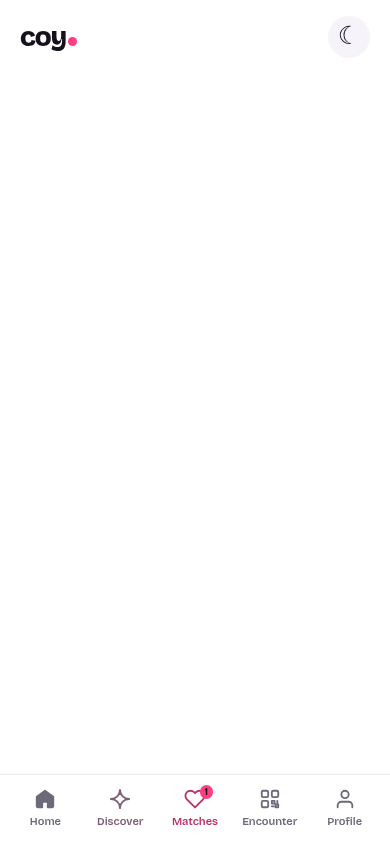
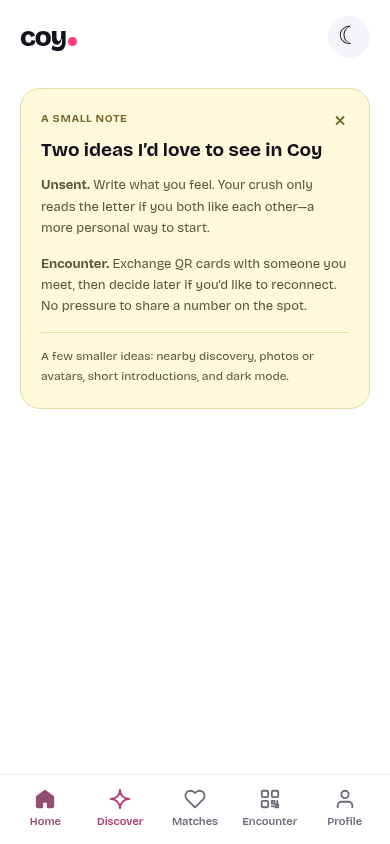
Add compact dismissible Home note for Unsent and Encounter suggestions

diff --git a/src/style.css b/src/style.css
@@ -1515,3 +1515,70 @@ html[data-theme="dark"] .profile-qr-dialog > .close-dialog {
   background: #453b53;
   color: #f5f1fb;
 }
+.home-note {
+  position: relative;
+  margin: 22px 0;
+  padding: 22px 20px;
+  background: #fff9dc;
+  border: 1px solid #e5dba3;
+  border-radius: 20px;
+}
+.note-eyebrow {
+  display: block;
+  color: #78692d;
+  font-size: 11px;
+  font-weight: 700;
+  letter-spacing: 0.06em;
+  text-transform: uppercase;
+  margin-bottom: 10px;
+}
+.home-note h2 {
+  font-size: 19px;
+  line-height: 1.25;
+  padding-right: 24px;
+  max-width: 28ch;
+}
+.home-note p {
+  font-size: 13px;
+  line-height: 1.65;
+  color: #5c543a;
+  margin-top: 14px;
+}
+.home-note .note-extras {
+  font-size: 12px;
+  border-top: 1px solid #e5dba3;
+  padding-top: 14px;
+}
+.note-dismiss {
+  position: absolute;
+  top: 12px;
+  right: 12px;
+  width: 34px;
+  height: 34px;
+  border: 0;
+  background: transparent;
+  border-radius: 50%;
+  font-size: 24px;
+  color: #78692d;
+}
+.note-dismiss:hover {
+  background: #efe6b8;
+}
+html[data-theme="dark"] .home-note {
+  background: #302c20;
+  border-color: #595037;
+}
+html[data-theme="dark"] .home-note h2 {
+  color: #f5f1e4;
+}
+html[data-theme="dark"] .home-note p,
+html[data-theme="dark"] .note-eyebrow,
+html[data-theme="dark"] .note-dismiss {
+  color: #d2c7a0;
+}
+html[data-theme="dark"] .home-note .note-extras {
+  border-color: #595037;
+}
+html[data-theme="dark"] .note-dismiss:hover {
+  background: #49412c;
+}

diff --git a/src/home-note.jsx b/src/home-note.jsx
@@ -1,0 +1,47 @@
+import React, { useState } from "react";
+
+const storageKey = "coy-home-suggestions-dismissed-v1";
+
+export function HomeNote() {
+  const [dismissed, setDismissed] = useState(() => {
+    try {
+      return localStorage.getItem(storageKey) === "true";
+    } catch {
+      return false;
+    }
+  });
+  if (dismissed) return null;
+  function dismiss() {
+    setDismissed(true);
+    try {
+      localStorage.setItem(storageKey, "true");
+    } catch {}
+  }
+  return (
+    <aside className="home-note" aria-labelledby="suggestions-title">
+      <button
+        className="note-dismiss"
+        type="button"
+        onClick={dismiss}
+        aria-label="Dismiss suggestions"
+      >
+        ×
+      </button>
+      <span className="note-eyebrow">A small note</span>
+      <h2 id="suggestions-title">Two ideas I’d love to see in Coy</h2>
+      <p>
+        <strong>Unsent.</strong> Write what you feel. Your crush only reads the
+        letter if you both like each other—a more personal way to start.
+      </p>
+      <p>
+        <strong>Encounter.</strong> Exchange QR cards with someone you meet,
+        then decide later if you’d like to reconnect. No pressure to share a
+        number on the spot.
+      </p>
+      <p className="note-extras">
+        A few smaller ideas: nearby discovery, photos or avatars, short
+        introductions, and dark mode.
+      </p>
+    </aside>
+  );
+}

diff --git a/src/main.jsx b/src/main.jsx
@@ -1,6 +1,7 @@
 import React, { useState, useEffect, useRef } from "react";
 import { createRoot } from "react-dom/client";
 import "./style.css";
+import { HomeNote } from "./home-note.jsx";
 import { api } from "./api.js";
 import { ProfileEditor, LocationPermission } from "./features.jsx";
 import {
@@ -219,6 +220,7 @@ function App() {
           {theme === "dark" ? "☀" : "☾"}
         </button>
       </header>
+      {tab === "Home" && <HomeNote />}
       {tab === "Encounter" && (
         <Encounters
           user={user}

diff --git a/README.md b/README.md
@@ -1,6 +1,6 @@
 # Coy — Discover
 
-A mobile-first React app with an Express API and SQLite persistence, built for the Coy SDE Intern Assignment. Discover shows one profile at a time; likes stay private until they are mutual. Home is a blank placeholder, as requested in the brief.
+A mobile-first React app with an Express API and SQLite persistence, built for the Coy SDE Intern Assignment. Discover shows one profile at a time; likes stay private until they are mutual. Home contains an optional suggestions note requested during development; dismissing it leaves the placeholder blank.
 
 ## Run locally
 
@@ -34,7 +34,7 @@ Use a persistent disk for SQLite. The app is intended for a single Node server, 
 | Requirement | Implementation / status |
 | --- | --- |
 | React frontend, Node backend, persistent data | React + Vite, Express, SQLite |
-| Mobile-first; blank Home | Narrow responsive layout, placeholder Home |
+| Mobile-first; Home placeholder | Narrow responsive layout; optional dismissible suggestions note |
 | At least 30 profiles | 32 adult mock profiles with name, age, image, bio, city/college and interests |
 | Seeded incoming likes | Some mock profiles privately like each new demo user |
 | One profile at a time | Drag right to like, left to pass; desktop buttons |
@@ -93,7 +93,7 @@ The camera asks permission and decodes frames locally. Tracks stop after success
 
 ### Dark mode, empty state and blank Home
 
-Dark mode is saved locally. Exhausting the feed shows a clear empty state. Home remains blank; feature suggestions are kept in Part A documentation.
+Dark mode is saved locally. Exhausting the feed shows a clear empty state. Home shows a small dismissible note about Unsent and Encounter. Dismissal is saved locally and leaves Home blank. The full proposals are in Part A documentation.
 
 <img src="docs/screenshots/dark-mode.png" alt="Dark mode Discover" width="300" /> <img src="docs/screenshots/empty-state.png" alt="Exhausted feed" width="300" /> <img src="docs/screenshots/home.png" alt="Blank Home placeholder" width="300" />
 
@@ -161,7 +161,7 @@ Tests do not modify your working demo database. `CHROME_PATH` can override the b
 
 [Part A](docs/PART_A.md) proposes **Unsent** and **Encounter** and explains why each would help. The live Coy public login was inspected. Actual phone OTP completion, adding a crush, email verification, invite destination and extra-slot screen remain **unverified** because no authenticated live session was available. Complete that firsthand walkthrough before submitting; do not claim the local prototype completes those research steps. Do not purchase extra slots.
 
-The original brief assumes one user. Browser-isolated users and the Profile/Encounter tabs are optional extensions requested during development. Home stays blank to meet the explicit requirement. No external auth or payment integration is included.
+The original brief assumes one user. Browser-isolated users and the Profile/Encounter tabs are optional extensions requested during development. The optional Home note extends the original blank-Home requirement and can be dismissed. No external auth or payment integration is included.
 
 Before public production use, add verified account login/recovery/deletion, moderation/blocking, abuse controls for new identities and deployment-specific infrastructure. SQLite images and anonymous identities are suitable for this assignment prototype, not a complete consumer service. The interface follows Coy's public visual language and uses its publicly served font as reference; this is an unofficial project.
 
